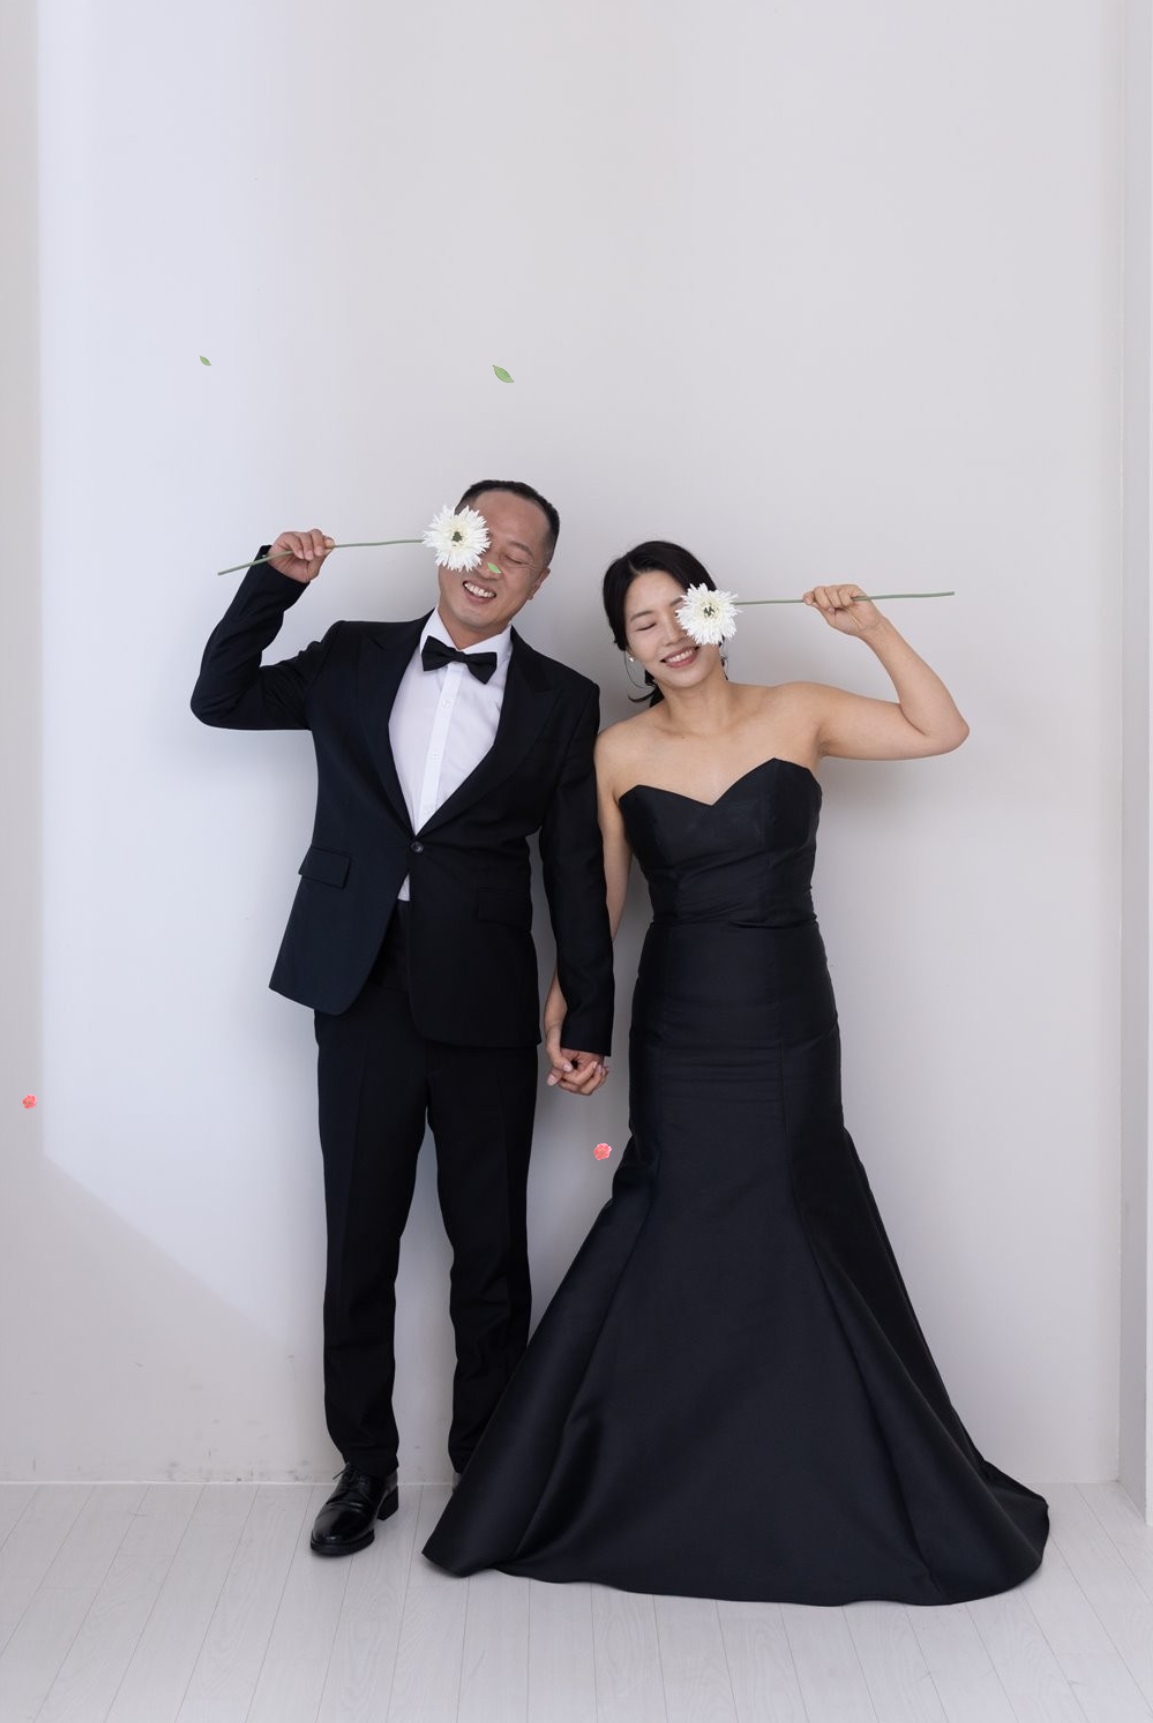
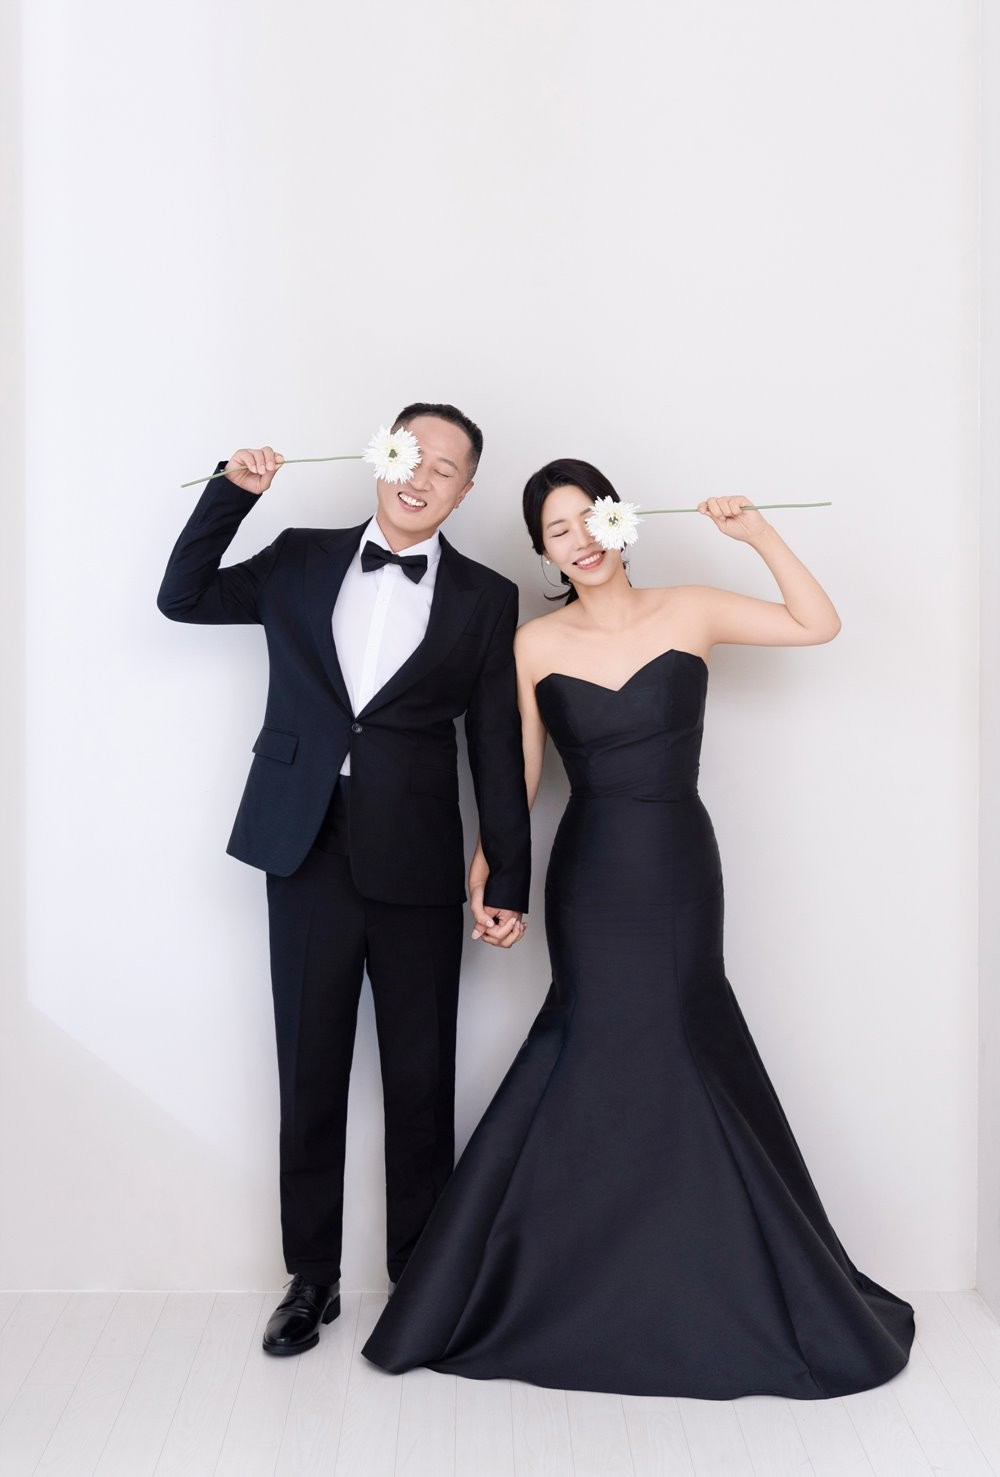
Update invitation images and styles

diff --git a/src/app/page.tsx b/src/app/page.tsx
@@ -14,6 +14,11 @@ export default function WeddingInvitation() {
   const [isLoadingMessages, setIsLoadingMessages] = useState(true)
   const [isMounted, setIsMounted] = useState(false)
   const [visibleSections, setVisibleSections] = useState<Set<string>>(new Set())
+  const [galleryOpen, setGalleryOpen] = useState(false)
+  const [currentImageIndex, setCurrentImageIndex] = useState(0)
+  const [showHeader, setShowHeader] = useState(false)
+
+  const galleryImages = [1, 13, 3, 4, 5, 6, 7, 8, 9, 10]
 
   useEffect(() => {
     // Create falling petals with colors
@@ -59,6 +64,14 @@ export default function WeddingInvitation() {
         // Autoplay was prevented, user will need to click the button
       })
     }
+
+    // Handle scroll for header
+    const handleScroll = () => {
+      setShowHeader(window.scrollY > 300)
+    }
+
+    window.addEventListener('scroll', handleScroll)
+    return () => window.removeEventListener('scroll', handleScroll)
   }, [])
 
   const fetchMessages = async () => {
@@ -145,8 +158,101 @@ export default function WeddingInvitation() {
     }
   }
 
+  const scrollToSection = (sectionId: string) => {
+    const element = document.getElementById(sectionId)
+    if (element) {
+      element.scrollIntoView({ behavior: 'smooth', block: 'start' })
+    }
+  }
+
+  const openGallery = (index: number) => {
+    console.log('Opening gallery with index:', index, 'Image:', galleryImages[index])
+    setCurrentImageIndex(index)
+    setGalleryOpen(true)
+  }
+
+  const closeGallery = () => {
+    setGalleryOpen(false)
+  }
+
+  const nextImage = () => {
+    setCurrentImageIndex((prev) => (prev + 1) % galleryImages.length)
+  }
+
+  const prevImage = () => {
+    setCurrentImageIndex((prev) => (prev - 1 + galleryImages.length) % galleryImages.length)
+  }
+
+  useEffect(() => {
+    if (!galleryOpen) return
+
+    // Prevent body scroll when gallery is open
+    document.body.style.overflow = 'hidden'
+
+    const handleKeyDown = (e: KeyboardEvent) => {
+      if (e.key === 'ArrowRight') nextImage()
+      if (e.key === 'ArrowLeft') prevImage()
+      if (e.key === 'Escape') closeGallery()
+    }
+
+    window.addEventListener('keydown', handleKeyDown)
+
+    return () => {
+      window.removeEventListener('keydown', handleKeyDown)
+      document.body.style.overflow = 'unset'
+    }
+  }, [galleryOpen, currentImageIndex])
+
   return (
-    <div className="min-h-screen bg-gradient-to-b from-[#FAF8F5] via-white to-[#FAF8F5] relative overflow-hidden">
+    <div className="min-h-screen bg-gradient-to-b from-[#FAF8F5] via-white to-[#FAF8F5] relative overflow-x-hidden">
+      {/* Sticky Header */}
+      <header
+        className={`fixed top-0 left-0 right-0 z-50 bg-[#FAF8F5]/95 backdrop-blur-sm border-b border-gray-200 transition-transform duration-300 ${
+          showHeader ? 'translate-y-0' : '-translate-y-full'
+        }`}
+        style={{ transform: showHeader ? 'translateY(0)' : 'translateY(-100%)', transition: 'transform 0.3s ease-in-out' }}
+      >
+        <nav className="max-w-4xl mx-auto px-6 py-4">
+          <ul className="flex justify-around items-center text-sm text-gray-700">
+            <li>
+              <button
+                onClick={() => scrollToSection('hero')}
+                className="hover:text-[#D4AF37] transition-colors"
+              >
+                처음으로
+              </button>
+            </li>
+            <li className="text-gray-300">|</li>
+            <li>
+              <button
+                onClick={() => scrollToSection('gallery')}
+                className="hover:text-[#D4AF37] transition-colors"
+              >
+                갤러리보기
+              </button>
+            </li>
+            <li className="text-gray-300">|</li>
+            <li>
+              <button
+                onClick={() => scrollToSection('guestbook')}
+                className="hover:text-[#D4AF37] transition-colors"
+              >
+                축하메시지
+              </button>
+            </li>
+            <li className="text-gray-300">|</li>
+            <li>
+              <button
+                onClick={() => scrollToSection('venue')}
+                className="hover:text-[#D4AF37] transition-colors"
+              >
+                찾아오는길
+              </button>
+            </li>
+          </ul>
+        </nav>
+      </header>
+
       {/* Background Music */}
       {isMounted && (
         <>
@@ -186,18 +292,18 @@ export default function WeddingInvitation() {
         ))}
       </div>
       {/* Hero and Gallery Section - Side by Side */}
-      <section className="relative min-h-screen w-full flex flex-col md:flex-row">
+      <section id="hero" className="relative min-h-screen w-full flex flex-col md:flex-row">
         {/* Hero Photo - Left Side */}
-        <div className="relative w-full md:w-1/2 h-screen">
+        <div className="relative w-full md:w-1/2 min-h-screen bg-white flex items-center justify-center">
           <img
             src="/images/hero.png"
             alt="임진석♥신해숙"
-            className="w-full h-full object-cover"
+            className="w-full h-auto max-h-screen object-contain md:w-full md:h-full md:object-cover"
           />
         </div>
 
         {/* Gallery - Right Side */}
-        <div className="w-full md:w-1/2 bg-white/50 py-16 px-6 overflow-y-auto" style={{ WebkitOverflowScrolling: 'touch', willChange: 'scroll-position' }}>
+        <div id="gallery" className="w-full md:w-1/2 bg-white/50 py-16 px-6 overflow-y-auto" style={{ WebkitOverflowScrolling: 'touch' }}>
           <div className="max-w-3xl mx-auto">
             <h2 className="text-2xl font-serif text-center text-[#D4AF37] mb-8">Gallery</h2>
 
@@ -248,6 +354,16 @@ export default function WeddingInvitation() {
                     </div>
                   ))}
                 </div>
+              </div>
+
+              {/* Gallery Viewer Section */}
+              <div className="mt-8 pt-8 border-t border-gray-200">
+                <button
+                  onClick={() => openGallery(0)}
+                  className="w-full py-4 bg-[#D4AF37] text-white text-center font-medium rounded-lg hover:bg-[#C4A030] transition-colors shadow-sm"
+                >
+                  Gallery Viewer
+                </button>
               </div>
             </div>
           </div>
@@ -633,6 +749,101 @@ export default function WeddingInvitation() {
           </div>
         </div>
       </section>
+
+      {/* Fullscreen Gallery Viewer */}
+      {galleryOpen && (
+        <div
+          className="fixed inset-0 z-[100] bg-black/95 flex flex-col"
+          onTouchStart={(e) => {
+            const touch = e.touches[0]
+            const startX = touch.clientX
+            const handleTouchEnd = (endEvent: TouchEvent) => {
+              const endX = endEvent.changedTouches[0].clientX
+              const diff = startX - endX
+              if (Math.abs(diff) > 50) {
+                if (diff > 0) {
+                  nextImage()
+                } else {
+                  prevImage()
+                }
+              }
+              document.removeEventListener('touchend', handleTouchEnd)
+            }
+            document.addEventListener('touchend', handleTouchEnd)
+          }}
+        >
+          {/* Close Button */}
+          <button
+            onClick={closeGallery}
+            className="absolute top-6 right-6 z-[101] text-white hover:text-gray-300 transition-colors"
+            aria-label="닫기"
+          >
+            <svg className="w-8 h-8" fill="none" stroke="currentColor" viewBox="0 0 24 24">
+              <path strokeLinecap="round" strokeLinejoin="round" strokeWidth={2} d="M6 18L18 6M6 6l12 12" />
+            </svg>
+          </button>
+
+          {/* Previous Button */}
+          <button
+            onClick={prevImage}
+            className="absolute left-4 top-1/2 transform -translate-y-1/2 z-[101] text-white hover:text-gray-300 transition-colors p-2"
+            aria-label="이전 사진"
+          >
+            <svg className="w-10 h-10" fill="none" stroke="currentColor" viewBox="0 0 24 24">
+              <path strokeLinecap="round" strokeLinejoin="round" strokeWidth={2} d="M15 19l-7-7 7-7" />
+            </svg>
+          </button>
+
+          {/* Main Image */}
+          <div className="flex-1 flex items-center justify-center p-4 pb-2">
+            <img
+              src={`/images/${galleryImages[currentImageIndex]}.png`}
+              alt={`Wedding Photo ${galleryImages[currentImageIndex]}`}
+              className="max-w-full max-h-full object-contain"
+            />
+          </div>
+
+          {/* Next Button */}
+          <button
+            onClick={nextImage}
+            className="absolute right-4 top-1/2 transform -translate-y-1/2 z-[101] text-white hover:text-gray-300 transition-colors p-2"
+            aria-label="다음 사진"
+          >
+            <svg className="w-10 h-10" fill="none" stroke="currentColor" viewBox="0 0 24 24">
+              <path strokeLinecap="round" strokeLinejoin="round" strokeWidth={2} d="M9 5l7 7-7 7" />
+            </svg>
+          </button>
+
+          {/* Thumbnail Strip */}
+          <div className="w-full px-4 pb-4 pt-2">
+            {/* Image Counter */}
+            <div className="text-center text-white text-sm mb-3">
+              {currentImageIndex + 1} / {galleryImages.length}
+            </div>
+
+            {/* Thumbnails */}
+            <div className="flex gap-2 overflow-x-auto pb-2 scrollbar-hide justify-center">
+              {galleryImages.map((imageNum, idx) => (
+                <div
+                  key={imageNum}
+                  onClick={() => setCurrentImageIndex(idx)}
+                  className={`flex-shrink-0 w-16 h-16 cursor-pointer rounded-md overflow-hidden border-2 transition-all ${
+                    idx === currentImageIndex
+                      ? 'border-[#D4AF37] scale-110'
+                      : 'border-gray-600 opacity-60 hover:opacity-100'
+                  }`}
+                >
+                  <img
+                    src={`/images/${imageNum}.png`}
+                    alt={`Thumbnail ${imageNum}`}
+                    className="w-full h-full object-cover"
+                  />
+                </div>
+              ))}
+            </div>
+          </div>
+        </div>
+      )}
 
       {/* Footer */}
       <footer className="py-12 px-6 text-center">

diff --git a/src/app/globals.css b/src/app/globals.css
@@ -83,10 +83,28 @@ body {
   overscroll-behavior-y: none;
 }
 
+/* Optimize for mobile browsers (including KakaoTalk) */
+* {
+  -webkit-backface-visibility: hidden;
+  backface-visibility: hidden;
+  -webkit-perspective: 1000;
+  perspective: 1000;
+}
+
 /* Hide scrollbar but keep functionality */
 ::-webkit-scrollbar {
   width: 0px;
   background: transparent;
+}
+
+/* Scrollbar hide utility */
+.scrollbar-hide {
+  -ms-overflow-style: none;
+  scrollbar-width: none;
+}
+
+.scrollbar-hide::-webkit-scrollbar {
+  display: none;
 }
 
 /* Falling petals animation */
